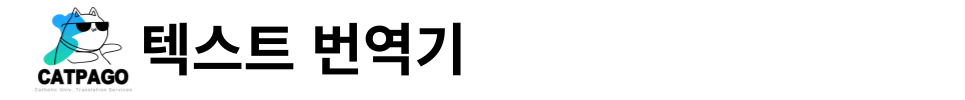
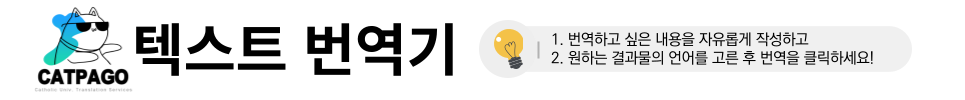
이미지번역 GUI까지 완료

Changed region(s): [[0.1244, 0.21, 0.9016, 0.78]]

diff --git a/src/main/java/ImageTranslatorGUI.java b/src/main/java/ImageTranslatorGUI.java
@@ -37,6 +37,7 @@ import java.util.HashMap;
 import java.util.Map;
 public class ImageTranslatorGUI extends JFrame {
 
+    private Map<String, String> languageCodeMap;
     private Client client;
     private ImageTranslator imageTranslator;
 
@@ -50,6 +51,7 @@ public class ImageTranslatorGUI extends JFrame {
     private JButton CopyButton2;
     private JButton ResetButton3;
     private JButton ResetButton4;
+
     private JComboBox<String> languageComboBox;
     private JTextArea originalTextArea;
     private JTextArea translatedTextArea;
@@ -67,6 +69,26 @@ public class ImageTranslatorGUI extends JFrame {
         addWindowListener(new CustomWindowAdapter());
     }
 
+    private void createLanguageCodeMap() {
+        languageCodeMap = new HashMap<>();
+        languageCodeMap.put("한국어로", "ko");
+        languageCodeMap.put("영어로", "en");
+        languageCodeMap.put("일본어로", "ja");
+        languageCodeMap.put("중국어(간체)로", "zh-CN");
+        languageCodeMap.put("중국어(번체)로", "zh-TW");
+        languageCodeMap.put("베트남어로", "vi");
+        languageCodeMap.put("인도네시아어로", "id");
+        languageCodeMap.put("태국어로", "th");
+        languageCodeMap.put("독일어로", "de");
+        languageCodeMap.put("러시아어로", "ru");
+        languageCodeMap.put("스페인어로", "es");
+        languageCodeMap.put("이탈리아어로", "it");
+        languageCodeMap.put("프랑스어로", "fr");
+
+        System.out.println(languageCodeMap);
+
+    }
+
     public void createImageTranslatorGUI(){
         ImageIcon imageIcon = new ImageIcon("src\\main\\resources\\bg_NT.png"); // Replace with your image path
         JLabel imageLabel = new JLabel("",imageIcon,JLabel.CENTER);
@@ -75,27 +97,32 @@ public class ImageTranslatorGUI extends JFrame {
         JLabel imageLabel2 = new JLabel("",imageIcon2,JLabel.CENTER);
         imageLabel2.setBounds(453, 270, imageIcon2.getIconWidth(), imageIcon2.getIconHeight()); // Set the bounds according to the image size
         add(imageLabel2);
+        ImageIcon imageIcon3 = new ImageIcon("src\\main\\resources\\banner_IMAGE.png"); // Replace with your image path
+        JLabel imageLabel3 = new JLabel("",imageIcon3,JLabel.CENTER);
+        imageLabel3.setBounds(0, 0, imageIcon3.getIconWidth(), imageIcon3.getIconHeight()); // Set the bounds according to the image size
+        add(imageLabel3);
 
         setTitle("CATPAGO - 언어 장벽 없이 대화하는 세상을 꿈꿉니다. ");
         setSize(965, 590);  // 크기 수정
         setLayout(null);
         setResizable(false); // 윈도우의 크기 조정을 불가능하게 한다.
         setLocationRelativeTo(null); // 실행시 화면 중앙에서 실행되는 코드.
+        createLanguageCodeMap(); // 이 메서드를 호출해 languageCodeMap을 초기화해요.
+
 
         titleLabel = new JLabel("");
         titleLabel.setFont(new Font("맑은 고딕", Font.BOLD, 20));
         titleLabel.setBounds(430, 10, 200, 30); //안쓰는 레이블, 배너로 처리할 부분
 
-        languageLable = new JLabel("1. 번역할 언어 선택");
+        languageLable = new JLabel("1. 번역할 언어 선택"); // 안쓰는 파트
         languageLable.setFont(new Font("맑은 고딕", Font.PLAIN, 15));
         languageLable.setBounds(50, 10, 300, 30);
 
 
-        String[] languages = {"ko", "en", "ja", "zh-CN", "zh-TW", "vi", "id", "th", "de", "ru", "es", "it", "fr"};
-        languageComboBox = new JComboBox<>(languages);
+        languageComboBox = new JComboBox<>(new String[]{"한국어로", "영어로", "일본어로", "중국어(간체)로", "중국어(번체)로", "베트남어로", "인도네시아어로", "태국어로", "독일어로", "러시아어로", "스페인어로", "이탈리아어로", "프랑스어로"});
         languageComboBox.setBounds(225, 505, 120, 30);  // 크기 수정
 
-        uploadLable = new JLabel("2. 글자를 인식할 이미지 선택");
+        uploadLable = new JLabel("2. 글자를 인식할 이미지 선택"); // 안쓰는 파트
         uploadLable.setFont(new Font("맑은 고딕", Font.PLAIN, 15));
         uploadLable.setBounds(400, 10, 300, 30);
 
@@ -124,7 +151,7 @@ public class ImageTranslatorGUI extends JFrame {
         ResetButton4.addActionListener(new ResetButtonListener());
 
 
-        originalTextArea = new JTextArea(" 이미지 텍스트 변환 결과가 이곳에 표시됩니다.\n인식이 올바르지 않은 부분은 직접 수정할 수 있습니다.");
+        originalTextArea = new JTextArea(" 이미지 텍스트 변환 결과가 이곳에 표시됩니다.\n 인식이 올바르지 않은 부분은 직접 수정하여 복사할 수 있습니다.");
         originalTextArea.setBorder(new LineBorder(new Color(0,0,0),2)); // Set a black border
         originalTextArea.setEditable(true);
         originalTextArea.setLineWrap(true);
@@ -207,11 +234,13 @@ public class ImageTranslatorGUI extends JFrame {
                 System.out.println("Byte array length: " + imageInByte.length);
 
                 // 바이트 배열을 Base64 인코딩하여 문자열로 변환합니다.
+                String targetLanguageDisplay = (String) languageComboBox.getSelectedItem();
+                String targetLanguage = languageCodeMap.get(targetLanguageDisplay);
                 String fileBase64 = Base64.getEncoder().encodeToString(imageInByte);
                 System.out.println("Base64 string: " + fileBase64);
                 // JSON 객체에 정보를 저장합니다.
                 json.put("sourceLanguage", "auto");
-                json.put("targetLanguage", languageComboBox.getSelectedItem().toString());
+                json.put("targetLanguage", targetLanguage);
                 json.put("image", fileBase64);
 
                 //JSON 객체를 문자열로 변환

diff --git a/src/main/java/Mainpage.java b/src/main/java/Mainpage.java
@@ -81,7 +81,7 @@ public class Mainpage {
             } else if(this.getText().equals("초기화")){
                 graphics.fillRoundRect(0, 0, width, height, 10, 10); // 나가기 버튼만 둥근 정도를 줄임
             } else if(this.getText().equals("업로드 및 번역")){
-                graphics.fillRoundRect(0, 0, width, height, 10, 10); // 나가기 버튼만 둥근 정도를 줄임
+                graphics.fillRoundRect(0, 0, width, height, 20, 20); // 나가기 버튼만 둥근 정도를 줄임
             } else{
                 graphics.fillRoundRect(0, 0, width, height, 50, 50); // 다른 버튼들은 기존 둥근 정도 유지
             }
